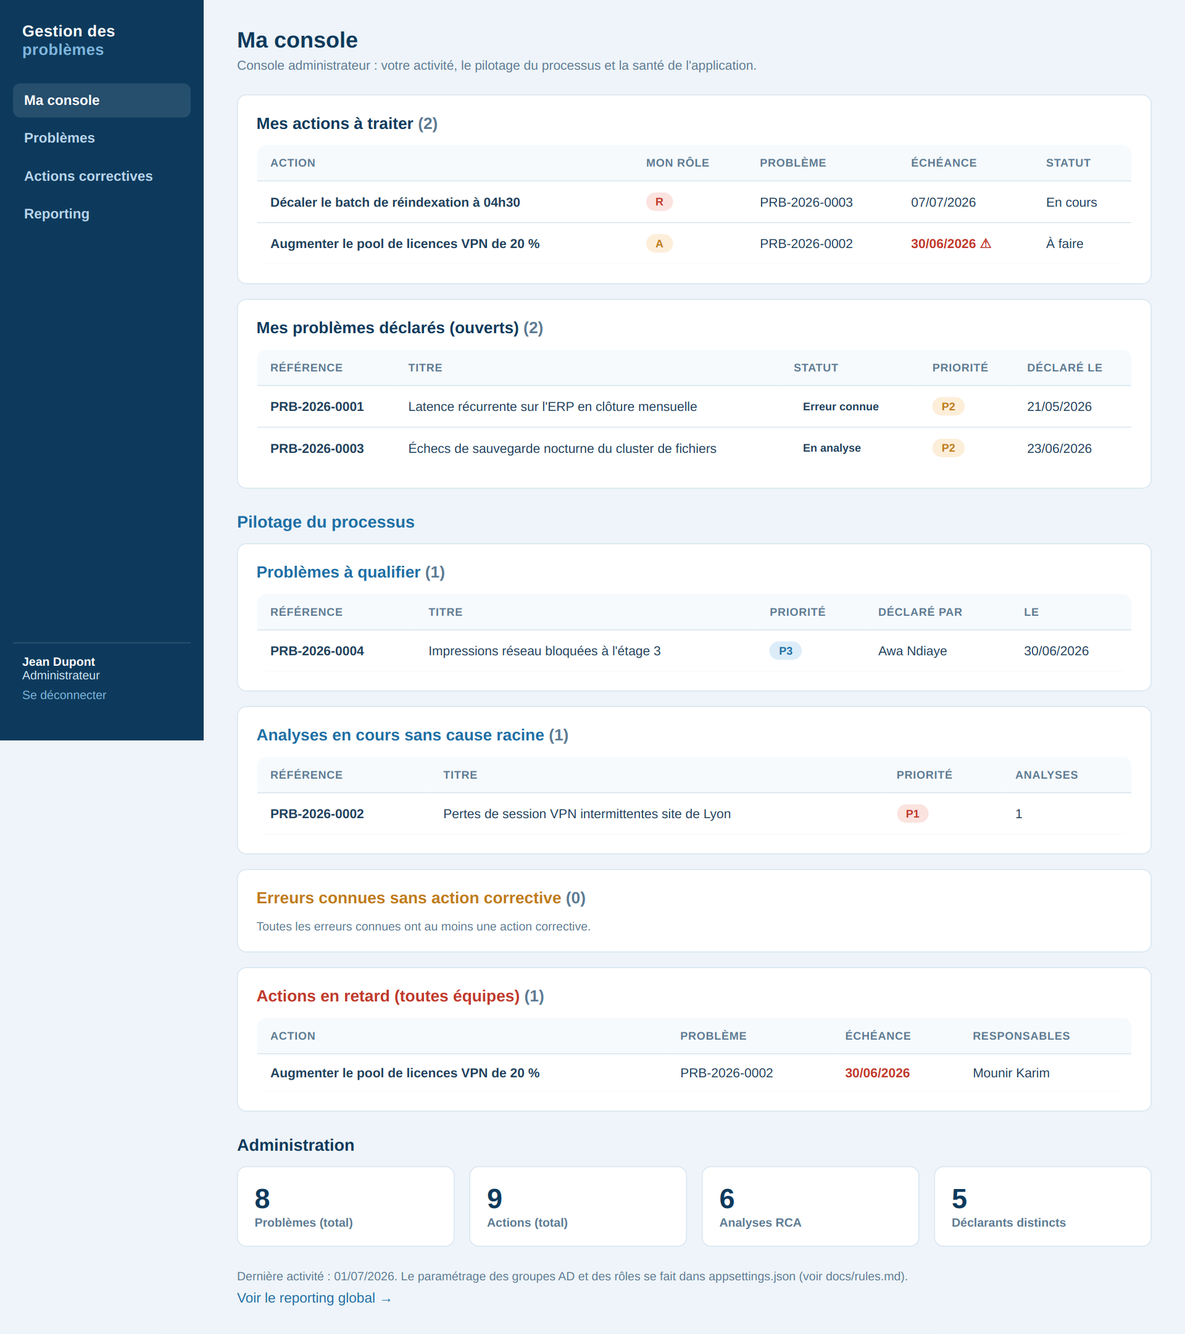
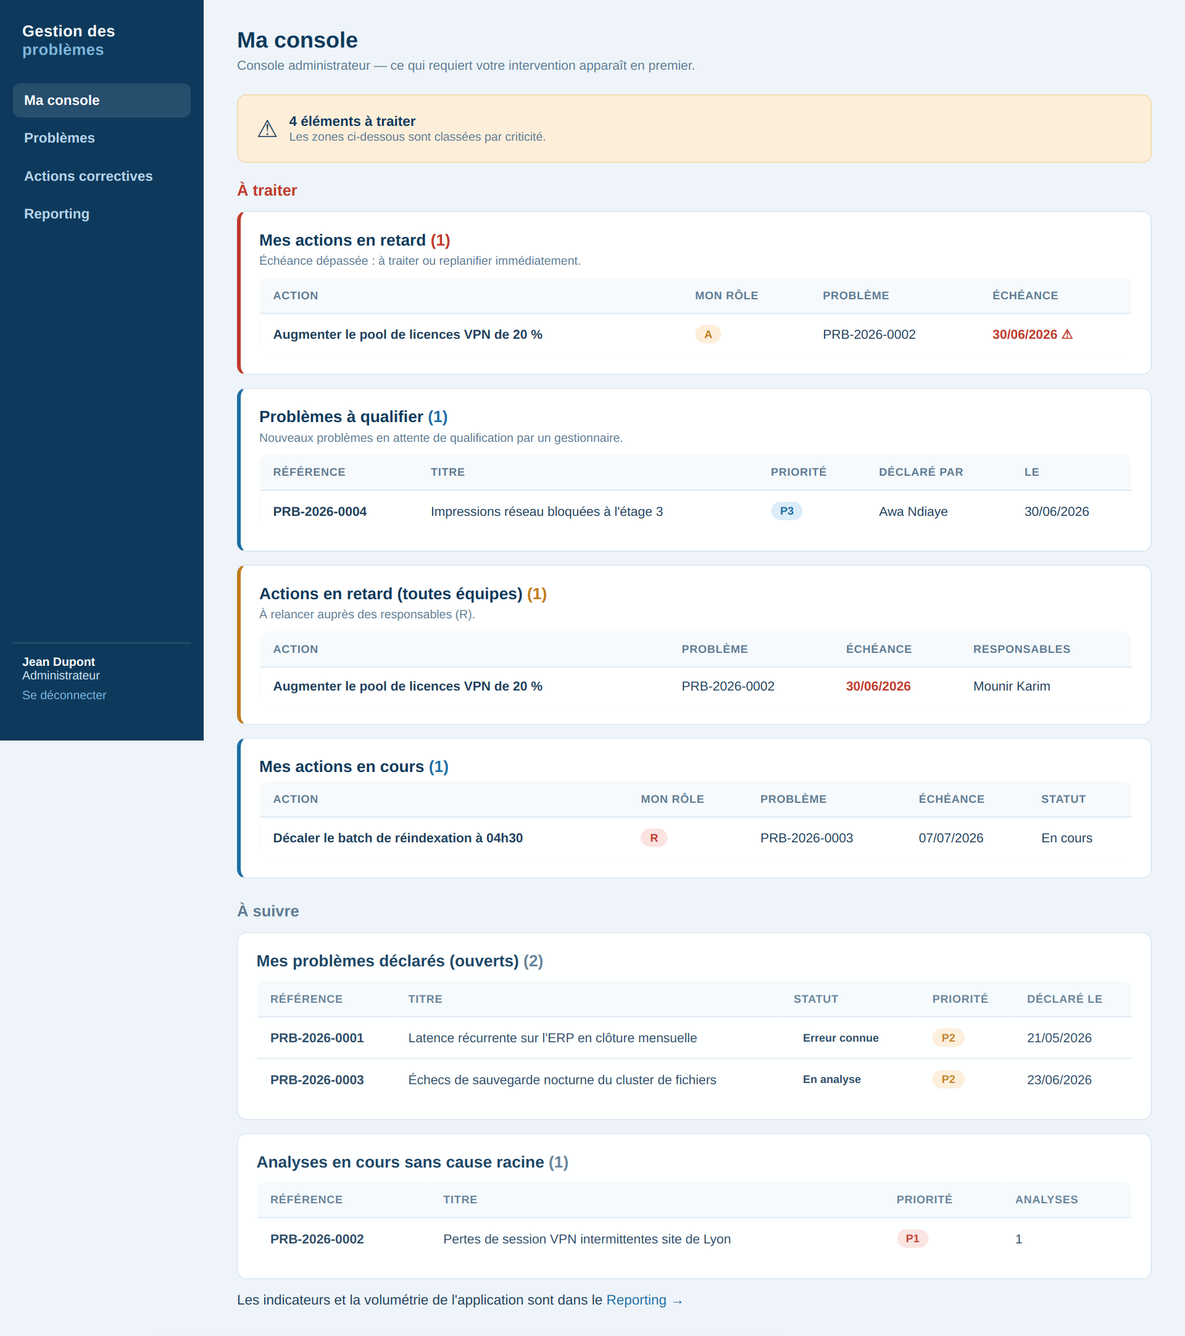
Console orientée action : zones À traiter/À suivre classées par criticité, bandeau de synthèse ; volumétrie déplacée vers le Reporting ; docs et captures mises à jour

diff --git a/frontend/src/pages/Console.jsx b/frontend/src/pages/Console.jsx
@@ -5,32 +5,28 @@ import { api } from '../api'
 const badge = s => s.replace(/[ é]/g, m => (m === ' ' ? '' : 'e'))
 const dateFr = d => new Date(d).toLocaleDateString('fr-FR')
 
-function Section({ title, count, children, tone }) {
+/** Carte d'une zone "à traiter" : bord coloré + compteur, masquée si vide. */
+function TodoSection({ title, tone, rows, cols, onRow, hint }) {
+  if (rows.length === 0) return null
   return (
-    <div className="card" style={{ marginBottom: 16 }}>
-      <h3 style={{ color: tone || 'var(--navy)', marginBottom: 12 }}>
-        {title} {count !== undefined && <span style={{ color: 'var(--muted)', fontWeight: 600 }}>({count})</span>}
+    <div className="card todo" style={{ borderLeft: `4px solid ${tone}`, marginBottom: 14 }}>
+      <h3 style={{ color: 'var(--navy)', marginBottom: 4 }}>
+        {title} <span style={{ color: tone, fontWeight: 800 }}>({rows.length})</span>
       </h3>
-      {children}
+      {hint && <p style={{ color: 'var(--muted)', fontSize: 13, marginBottom: 10 }}>{hint}</p>}
+      <table>
+        <thead><tr>{cols.map(c => <th key={c.h}>{c.h}</th>)}</tr></thead>
+        <tbody>{rows.map(r => (
+          <tr key={r.id} className="clickable" onClick={() => onRow(r)}>
+            {cols.map(c => <td key={c.h}>{c.v(r)}</td>)}
+          </tr>))}
+        </tbody>
+      </table>
     </div>
   )
 }
 
-function MiniTable({ rows, cols, onRow, empty }) {
-  if (rows.length === 0) return <p style={{ color: 'var(--muted)', fontSize: 13 }}>{empty}</p>
-  return (
-    <table>
-      <thead><tr>{cols.map(c => <th key={c.h}>{c.h}</th>)}</tr></thead>
-      <tbody>{rows.map(r => (
-        <tr key={r.id} className={onRow ? 'clickable' : ''} onClick={() => onRow && onRow(r)}>
-          {cols.map(c => <td key={c.h}>{c.v(r)}</td>)}
-        </tr>))}
-      </tbody>
-    </table>
-  )
-}
-
-/** Console personnalisée : chaque rôle voit ses propres blocs. */
+/** Console orientée action : ce qui requiert une intervention d'abord, le suivi ensuite. */
 export default function Console() {
   const [c, setC] = useState(null)
   const [error, setError] = useState('')
@@ -40,111 +36,123 @@ export default function Console() {
   if (!c) return <p>Chargement…</p>
 
   const goP = r => nav('/problems/' + (r.problem ? r.problem.id : r.id))
+  const m = c.management
+
+  // --- Zone 1 : à traiter (par ordre de criticité) ---
+  const myOverdue = c.myActions.filter(a => a.overdue)
+  const myTodo = c.myActions.filter(a => !a.overdue)
+  const nbTodo = myOverdue.length + myTodo.length
+    + (m ? m.overdueActions.length + m.toQualify.length + m.knownErrorsNoAction.length : 0)
+
+  const roleLabel = { Admin: 'administrateur', Manager: 'gestionnaire', User: 'utilisateur' }[c.role]
 
   return (
     <>
       <h1 className="page-title">Ma console</h1>
-      <p className="page-sub">
-        {c.role === 'Admin' && 'Console administrateur : votre activité, le pilotage du processus et la santé de l\u0027application.'}
-        {c.role === 'Manager' && 'Console gestionnaire : votre activité et le pilotage du processus de gestion des problèmes.'}
-        {c.role === 'User' && 'Votre activité : problèmes déclarés et actions qui vous sont affectées.'}
-      </p>
+      <p className="page-sub">Console {roleLabel} — ce qui requiert votre intervention apparaît en premier.</p>
 
-      {/* ---- Bloc personnel : tous les rôles ---- */}
-      <Section title="Mes actions à traiter" count={c.myActions.length}>
-        <MiniTable rows={c.myActions} onRow={goP}
-          empty="Aucune action ouverte ne vous est affectée."
-          cols={[
-            { h: 'Action', v: r => <b>{r.title}</b> },
-            { h: 'Mon rôle', v: r => r.myRoles.map(x => <span key={x} className={'badge ' + x} style={{ marginRight: 4 }}>{x}</span>) },
-            { h: 'Problème', v: r => r.problem.reference },
-            { h: 'Échéance', v: r => r.dueDate
-                ? <span style={r.overdue ? { color: 'var(--danger)', fontWeight: 700 } : {}}>{dateFr(r.dueDate)}{r.overdue && ' ⚠'}</span> : '—' },
-            { h: 'Statut', v: r => r.status }
-          ]} />
-      </Section>
-
-      <Section title="Mes problèmes déclarés (ouverts)" count={c.myProblems.length}>
-        <MiniTable rows={c.myProblems} onRow={goP}
-          empty="Aucun problème ouvert déclaré par vous."
-          cols={[
-            { h: 'Référence', v: r => <b>{r.reference}</b> },
-            { h: 'Titre', v: r => r.title },
-            { h: 'Statut', v: r => <span className={'badge ' + badge(r.status)}>{r.status}</span> },
-            { h: 'Priorité', v: r => <span className={'badge ' + r.priority}>{r.priority}</span> },
-            { h: 'Déclaré le', v: r => dateFr(r.createdAt) }
-          ]} />
-      </Section>
-
-      {/* ---- Bloc pilotage : Manager et Admin ---- */}
-      {c.management && (
-        <>
-          <h2 style={{ color: 'var(--blue)', fontSize: 18, margin: '26px 0 12px' }}>Pilotage du processus</h2>
-
-          <Section title="Problèmes à qualifier" count={c.management.toQualify.length} tone="var(--blue)">
-            <MiniTable rows={c.management.toQualify} onRow={goP}
-              empty="Aucun nouveau problème en attente de qualification."
-              cols={[
-                { h: 'Référence', v: r => <b>{r.reference}</b> },
-                { h: 'Titre', v: r => r.title },
-                { h: 'Priorité', v: r => <span className={'badge ' + r.priority}>{r.priority}</span> },
-                { h: 'Déclaré par', v: r => r.createdByDisplayName },
-                { h: 'Le', v: r => dateFr(r.createdAt) }
-              ]} />
-          </Section>
-
-          <Section title="Analyses en cours sans cause racine" count={c.management.inAnalysisNoRootCause.length} tone="var(--blue)">
-            <MiniTable rows={c.management.inAnalysisNoRootCause} onRow={goP}
-              empty="Toutes les analyses en cours ont une cause racine identifiée."
-              cols={[
-                { h: 'Référence', v: r => <b>{r.reference}</b> },
-                { h: 'Titre', v: r => r.title },
-                { h: 'Priorité', v: r => <span className={'badge ' + r.priority}>{r.priority}</span> },
-                { h: 'Analyses', v: r => r.analysesCount }
-              ]} />
-          </Section>
-
-          <Section title="Erreurs connues sans action corrective" count={c.management.knownErrorsNoAction.length} tone="var(--warn)">
-            <MiniTable rows={c.management.knownErrorsNoAction} onRow={goP}
-              empty="Toutes les erreurs connues ont au moins une action corrective."
-              cols={[
-                { h: 'Référence', v: r => <b>{r.reference}</b> },
-                { h: 'Titre', v: r => r.title },
-                { h: 'Priorité', v: r => <span className={'badge ' + r.priority}>{r.priority}</span> }
-              ]} />
-          </Section>
-
-          <Section title="Actions en retard (toutes équipes)" count={c.management.overdueActions.length} tone="var(--danger)">
-            <MiniTable rows={c.management.overdueActions} onRow={goP}
-              empty="Aucune action en retard."
-              cols={[
-                { h: 'Action', v: r => <b>{r.title}</b> },
-                { h: 'Problème', v: r => r.problem.reference },
-                { h: 'Échéance', v: r => <span style={{ color: 'var(--danger)', fontWeight: 700 }}>{dateFr(r.dueDate)}</span> },
-                { h: 'Responsables', v: r => r.responsibles.join(', ') || '—' }
-              ]} />
-          </Section>
-        </>
-      )}
-
-      {/* ---- Bloc administration : Admin uniquement ---- */}
-      {c.administration && (
-        <>
-          <h2 style={{ color: 'var(--navy)', fontSize: 18, margin: '26px 0 12px' }}>Administration</h2>
-          <div className="kpi-row">
-            <div className="kpi"><div className="n">{c.administration.totalProblems}</div><div className="l">Problèmes (total)</div></div>
-            <div className="kpi"><div className="n">{c.administration.totalActions}</div><div className="l">Actions (total)</div></div>
-            <div className="kpi"><div className="n">{c.administration.totalAnalyses}</div><div className="l">Analyses RCA</div></div>
-            <div className="kpi"><div className="n">{c.administration.contributors}</div><div className="l">Déclarants distincts</div></div>
+      {/* Bandeau de synthèse */}
+      <div className="card" style={{
+        marginBottom: 20, display: 'flex', alignItems: 'center', gap: 12,
+        background: nbTodo > 0 ? '#fdeeda' : '#ddf3e8',
+        borderColor: nbTodo > 0 ? '#f0d5a8' : '#b8e4cd'
+      }}>
+        <span style={{ fontSize: 26 }}>{nbTodo > 0 ? '⚠' : '✓'}</span>
+        <div>
+          <b style={{ color: 'var(--navy)' }}>
+            {nbTodo > 0 ? `${nbTodo} élément${nbTodo > 1 ? 's' : ''} à traiter` : 'Rien à traiter'}
+          </b>
+          <div style={{ fontSize: 13, color: 'var(--muted)' }}>
+            {nbTodo > 0 ? 'Les zones ci-dessous sont classées par criticité.' : 'Aucune intervention requise de votre part pour le moment.'}
           </div>
-          <p style={{ color: 'var(--muted)', fontSize: 13 }}>
-            Dernière activité : {c.administration.lastActivity ? dateFr(c.administration.lastActivity) : '—'}.
-            Le paramétrage des groupes AD et des rôles se fait dans <code>appsettings.json</code> (voir docs/rules.md).
-          </p>
-        </>
+        </div>
+      </div>
+
+      {/* ---- Zone À TRAITER ---- */}
+      <h2 style={{ color: 'var(--danger)', fontSize: 17, margin: '0 0 12px' }}>À traiter</h2>
+
+      <TodoSection title="Mes actions en retard" tone="var(--danger)" rows={myOverdue} onRow={goP}
+        hint="Échéance dépassée : à traiter ou replanifier immédiatement."
+        cols={[
+          { h: 'Action', v: r => <b>{r.title}</b> },
+          { h: 'Mon rôle', v: r => r.myRoles.map(x => <span key={x} className={'badge ' + x} style={{ marginRight: 4 }}>{x}</span>) },
+          { h: 'Problème', v: r => r.problem.reference },
+          { h: 'Échéance', v: r => <span style={{ color: 'var(--danger)', fontWeight: 700 }}>{dateFr(r.dueDate)} ⚠</span> }
+        ]} />
+
+      {m && <TodoSection title="Problèmes à qualifier" tone="var(--blue)" rows={m.toQualify} onRow={goP}
+        hint="Nouveaux problèmes en attente de qualification par un gestionnaire."
+        cols={[
+          { h: 'Référence', v: r => <b>{r.reference}</b> },
+          { h: 'Titre', v: r => r.title },
+          { h: 'Priorité', v: r => <span className={'badge ' + r.priority}>{r.priority}</span> },
+          { h: 'Déclaré par', v: r => r.createdByDisplayName },
+          { h: 'Le', v: r => dateFr(r.createdAt) }
+        ]} />}
+
+      {m && <TodoSection title="Erreurs connues sans action corrective" tone="var(--warn)" rows={m.knownErrorsNoAction} onRow={goP}
+        hint="Une erreur connue doit porter au moins une action corrective planifiée."
+        cols={[
+          { h: 'Référence', v: r => <b>{r.reference}</b> },
+          { h: 'Titre', v: r => r.title },
+          { h: 'Priorité', v: r => <span className={'badge ' + r.priority}>{r.priority}</span> }
+        ]} />}
+
+      {m && <TodoSection title="Actions en retard (toutes équipes)" tone="var(--warn)" rows={m.overdueActions} onRow={goP}
+        hint="À relancer auprès des responsables (R)."
+        cols={[
+          { h: 'Action', v: r => <b>{r.title}</b> },
+          { h: 'Problème', v: r => r.problem.reference },
+          { h: 'Échéance', v: r => <span style={{ color: 'var(--danger)', fontWeight: 700 }}>{dateFr(r.dueDate)}</span> },
+          { h: 'Responsables', v: r => r.responsibles.join(', ') || '—' }
+        ]} />}
+
+      <TodoSection title="Mes actions en cours" tone="var(--blue)" rows={myTodo} onRow={goP}
+        cols={[
+          { h: 'Action', v: r => <b>{r.title}</b> },
+          { h: 'Mon rôle', v: r => r.myRoles.map(x => <span key={x} className={'badge ' + x} style={{ marginRight: 4 }}>{x}</span>) },
+          { h: 'Problème', v: r => r.problem.reference },
+          { h: 'Échéance', v: r => r.dueDate ? dateFr(r.dueDate) : '—' },
+          { h: 'Statut', v: r => r.status }
+        ]} />
+
+      {nbTodo === 0 && <p style={{ color: 'var(--muted)', fontSize: 13, marginBottom: 20 }}>Aucun élément à traiter. 👍</p>}
+
+      {/* ---- Zone À SUIVRE (informatif, ton neutre) ---- */}
+      <h2 style={{ color: 'var(--muted)', fontSize: 17, margin: '26px 0 12px' }}>À suivre</h2>
+
+      <div className="card" style={{ marginBottom: 14, opacity: .93 }}>
+        <h3 style={{ color: 'var(--navy)', marginBottom: 10 }}>Mes problèmes déclarés (ouverts) <span style={{ color: 'var(--muted)', fontWeight: 600 }}>({c.myProblems.length})</span></h3>
+        {c.myProblems.length === 0
+          ? <p style={{ color: 'var(--muted)', fontSize: 13 }}>Aucun problème ouvert déclaré par vous.</p>
+          : <table><thead><tr><th>Référence</th><th>Titre</th><th>Statut</th><th>Priorité</th><th>Déclaré le</th></tr></thead>
+            <tbody>{c.myProblems.map(r => (
+              <tr key={r.id} className="clickable" onClick={() => goP(r)}>
+                <td><b>{r.reference}</b></td><td>{r.title}</td>
+                <td><span className={'badge ' + badge(r.status)}>{r.status}</span></td>
+                <td><span className={'badge ' + r.priority}>{r.priority}</span></td>
+                <td>{dateFr(r.createdAt)}</td>
+              </tr>))}</tbody></table>}
+      </div>
+
+      {m && (
+        <div className="card" style={{ marginBottom: 14, opacity: .93 }}>
+          <h3 style={{ color: 'var(--navy)', marginBottom: 10 }}>Analyses en cours sans cause racine <span style={{ color: 'var(--muted)', fontWeight: 600 }}>({m.inAnalysisNoRootCause.length})</span></h3>
+          {m.inAnalysisNoRootCause.length === 0
+            ? <p style={{ color: 'var(--muted)', fontSize: 13 }}>Toutes les analyses en cours ont une cause racine identifiée.</p>
+            : <table><thead><tr><th>Référence</th><th>Titre</th><th>Priorité</th><th>Analyses</th></tr></thead>
+              <tbody>{m.inAnalysisNoRootCause.map(r => (
+                <tr key={r.id} className="clickable" onClick={() => goP(r)}>
+                  <td><b>{r.reference}</b></td><td>{r.title}</td>
+                  <td><span className={'badge ' + r.priority}>{r.priority}</span></td>
+                  <td>{r.analysesCount}</td>
+                </tr>))}</tbody></table>}
+        </div>
       )}
 
-      <p style={{ marginTop: 8 }}><Link to="/reports">Voir le reporting global →</Link></p>
+      <p style={{ marginTop: 8 }}>
+        Les indicateurs et la volumétrie de l'application sont dans le <Link to="/reports">Reporting →</Link>
+      </p>
     </>
   )
 }

diff --git a/frontend/src/pages/Dashboard.jsx b/frontend/src/pages/Dashboard.jsx
@@ -38,6 +38,13 @@ export default function Dashboard() {
         <div className="kpi"><div className="n">{s.mttrDays ?? '—'}</div><div className="l">MTTR (jours)</div></div>
       </div>
 
+      <div className="kpi-row">
+        <div className="kpi"><div className="n">{s.totalProblems}</div><div className="l">Problèmes (total)</div></div>
+        <div className="kpi"><div className="n">{s.totalActions}</div><div className="l">Actions (total)</div></div>
+        <div className="kpi"><div className="n">{s.totalAnalyses}</div><div className="l">Analyses RCA</div></div>
+        <div className="kpi"><div className="n">{s.contributors}</div><div className="l">Déclarants distincts</div></div>
+      </div>
+
       <div className="grid" style={{ gridTemplateColumns: '1fr 1fr' }}>
         <Bars title="Problèmes par statut" data={s.problemsByStatus} labelKey="status" max={max(s.problemsByStatus)} />
         <Bars title="Problèmes par priorité" data={s.problemsByPriority} labelKey="priority" max={max(s.problemsByPriority)} />

diff --git a/backend/Controllers/ReportsController.cs b/backend/Controllers/ReportsController.cs
@@ -40,7 +40,11 @@ public class ReportsController(AppDbContext db) : ControllerBase
             MttrDays = mttrDays,
             OpenProblems = problems.Count(p => p.Status != "Clos"),
             KnownErrors = problems.Count(p => p.Status == "Erreur connue"),
-            TotalProblems = problems.Count
+            TotalProblems = problems.Count,
+            TotalActions = actions.Count,
+            TotalAnalyses = await db.Analyses.CountAsync(),
+            Contributors = problems.Select(p => p.CreatedBy).Distinct().Count(),
+            LastActivity = problems.Count > 0 ? problems.Max(p => p.UpdatedAt) : (DateTime?)null
         });
     }
 }
@@ -113,21 +117,7 @@ public class ConsoleController(AppDbContext db) : ControllerBase
                                KnownErrorsNoAction = knownErrorsNoAction, OverdueActions = overdue };
         }
 
-        object? administration = null;
-        if (role == "Admin")
-        {
-            // --- Bloc administration (Admin) ---
-            administration = new
-            {
-                TotalProblems = await db.Problems.CountAsync(),
-                TotalActions = await db.Actions.CountAsync(),
-                TotalAnalyses = await db.Analyses.CountAsync(),
-                Contributors = await db.Problems.Select(p => p.CreatedBy).Distinct().CountAsync(),
-                LastActivity = await db.Problems.MaxAsync(p => (DateTime?)p.UpdatedAt)
-            };
-        }
-
         return Ok(new { Role = role, Username = me, MyProblems = myProblems, MyActions = myActions,
-                        Management = management, Administration = administration });
+                        Management = management });
     }
 }

diff --git a/docs/architecture.md b/docs/architecture.md
@@ -37,7 +37,7 @@ Trois containers orchestrés par `docker-compose.yml` : **web** (nginx sert le b
 2. Les groupes `memberOf` sont comparés au mapping `Ldap:Groups` (Admin > Manager > User). Aucun groupe correspondant ⇒ connexion refusée.
 3. Un **JWT** est émis avec le rôle en claim. Le frontend le stocke en `sessionStorage` et l'envoie en `Authorization: Bearer`.
 4. Côté API, trois policies imbriquées : `User` (tous les rôles), `Manager` (Manager + Admin), `Admin`.
-5. La console (`GET /api/console`) compose sa réponse **côté serveur** selon le rôle du jeton.
+5. La console (`GET /api/console`) compose sa réponse **côté serveur** selon le rôle du jeton ; le frontend n'y reçoit que les blocs autorisés, classés pour mettre l'actionnable en premier.
 
 En production : activer LDAPS (`Ldap:UseSsl=true`, port 636), servir le frontend en HTTPS, externaliser `Jwt:Key` et les mots de passe (secrets Docker / variables d'environnement).
 
@@ -66,14 +66,14 @@ Suppressions en cascade : Problem → Analyses/Actions → RaciAssignments.
 | Méthode / Route | Policy | Rôle métier |
 |---|---|---|
 | POST `/api/auth/login` | — | Authentification AD → JWT |
-| GET `/api/console` | User | Console personnalisée par rôle |
+| GET `/api/console` | User | Console par rôle, orientée action (blocs « à traiter » / « à suivre ») |
 | GET/POST `/api/problems`, GET `/api/problems/{id}` | User | Liste (filtres statut, texte), détail, déclaration |
 | PUT `/api/problems/{id}` | Manager | Qualification, statuts, cause racine, contournement |
 | DELETE `/api/problems/{id}` | Admin | Suppression |
 | GET/POST/PUT `/api/problems/{id}/analyses[...]` | User | Analyses RCA (DELETE : Manager) |
 | GET `/api/actions`, POST `/api/problems/{id}/actions`, PUT `/api/actions/{id}` | User | Actions + RACI (DELETE : Manager) |
 | GET `/api/directory/search?q=` | User | Recherche utilisateurs/groupes AD (sélecteur RACI) |
-| GET `/api/reports/summary` | User | Indicateurs globaux (statuts, priorités, catégories, retards, MTTR) |
+| GET `/api/reports/summary` | User | Indicateurs globaux : statuts, priorités, catégories, retards, MTTR + volumétrie (totaux, analyses, déclarants, dernière activité) |
 
 ## 6. Frontend
 

diff --git a/docs/rules.md b/docs/rules.md
@@ -20,11 +20,23 @@ Si un utilisateur appartient à plusieurs groupes, le rôle le plus élevé est 
 
 ## 2. Consoles par rôle
 
-Chaque rôle dispose de sa propre console (page d'accueil « Ma console ») :
+Chaque rôle dispose de sa propre console (page d'accueil « Ma console »), **orientée action** : le contenu est organisé en deux zones, et ce qui requiert une intervention de l'utilisateur apparaît toujours en premier.
 
-- **User** : ses actions à traiter (avec ses rôles RACI et les retards), ses problèmes déclarés encore ouverts.
-- **Manager** : le bloc User **+** le pilotage du processus — problèmes à qualifier (statut Nouveau), analyses en cours sans cause racine, erreurs connues sans action corrective, actions en retard toutes équipes.
-- **Admin** : les blocs User et Manager **+** l'administration — volumétrie globale (problèmes, actions, analyses, déclarants) et dernière activité.
+**Zone « À traiter »** — classée par criticité, chaque bloc n'apparaît que s'il contient des éléments :
+
+| Ordre | Bloc | Visible par | Criticité |
+|---|---|---|---|
+| 1 | Mes actions en retard (échéance dépassée) | Tous | 🔴 |
+| 2 | Problèmes à qualifier (statut Nouveau) | Manager, Admin | 🔵 |
+| 3 | Erreurs connues sans action corrective | Manager, Admin | 🟠 |
+| 4 | Actions en retard toutes équipes (à relancer) | Manager, Admin | 🟠 |
+| 5 | Mes actions en cours (non en retard) | Tous | 🔵 |
+
+Un **bandeau de synthèse** en tête de console totalise les éléments à traiter (état « Rien à traiter » sinon).
+
+**Zone « À suivre »** — informative, en retrait visuel : mes problèmes déclarés encore ouverts (tous), analyses en cours sans cause racine (Manager, Admin).
+
+Les **indicateurs de volumétrie** (totaux problèmes/actions/analyses, déclarants distincts, dernière activité) ne relèvent pas de l'action : ils ont été déplacés de la console vers la page **Reporting**, accessible à tous les rôles.
 
 La composition des blocs est décidée **côté serveur** (`GET /api/console`) à partir du rôle porté par le jeton : un client ne peut pas obtenir un bloc qui ne correspond pas à son rôle.
 

diff --git a/README.md b/README.md
@@ -82,8 +82,8 @@ Authentification avec le compte AD ; l'accès est réservé aux membres des grou
 
 ![Connexion](docs/screenshots/01-connexion.png)
 
-### Ma console — personnalisée par rôle
-Page d'accueil composée côté serveur selon le rôle. Ici la vue **Admin**, qui cumule le bloc personnel (mes actions, mes problèmes), le pilotage du processus (problèmes à qualifier, analyses sans cause racine, erreurs connues sans action, retards) et l'administration (volumétrie).
+### Ma console — personnalisée par rôle, orientée action
+Page d'accueil composée côté serveur selon le rôle. Un bandeau totalise les éléments à traiter, puis la zone **À traiter** classe par criticité ce qui requiert une intervention (mes actions en retard, problèmes à qualifier, erreurs connues sans action, retards toutes équipes, mes actions en cours) ; la zone **À suivre** regroupe l'informatif. La volumétrie a été déplacée vers le Reporting. Ici la vue **Admin**.
 
 ![Console](docs/screenshots/02-console-admin.png)
 
@@ -113,7 +113,7 @@ Vue globale filtrable par statut ou « Mes affectations », avec signalement des
 ![Suivi des actions](docs/screenshots/07-suivi-actions.png)
 
 ### Reporting
-Indicateurs du processus : répartitions par statut / priorité / catégorie, actions en retard, MTTR.
+Indicateurs du processus : volumétrie globale (problèmes, actions, analyses, déclarants), répartitions par statut / priorité / catégorie, actions en retard, MTTR.
 
 ![Reporting](docs/screenshots/08-reporting.png)
 
